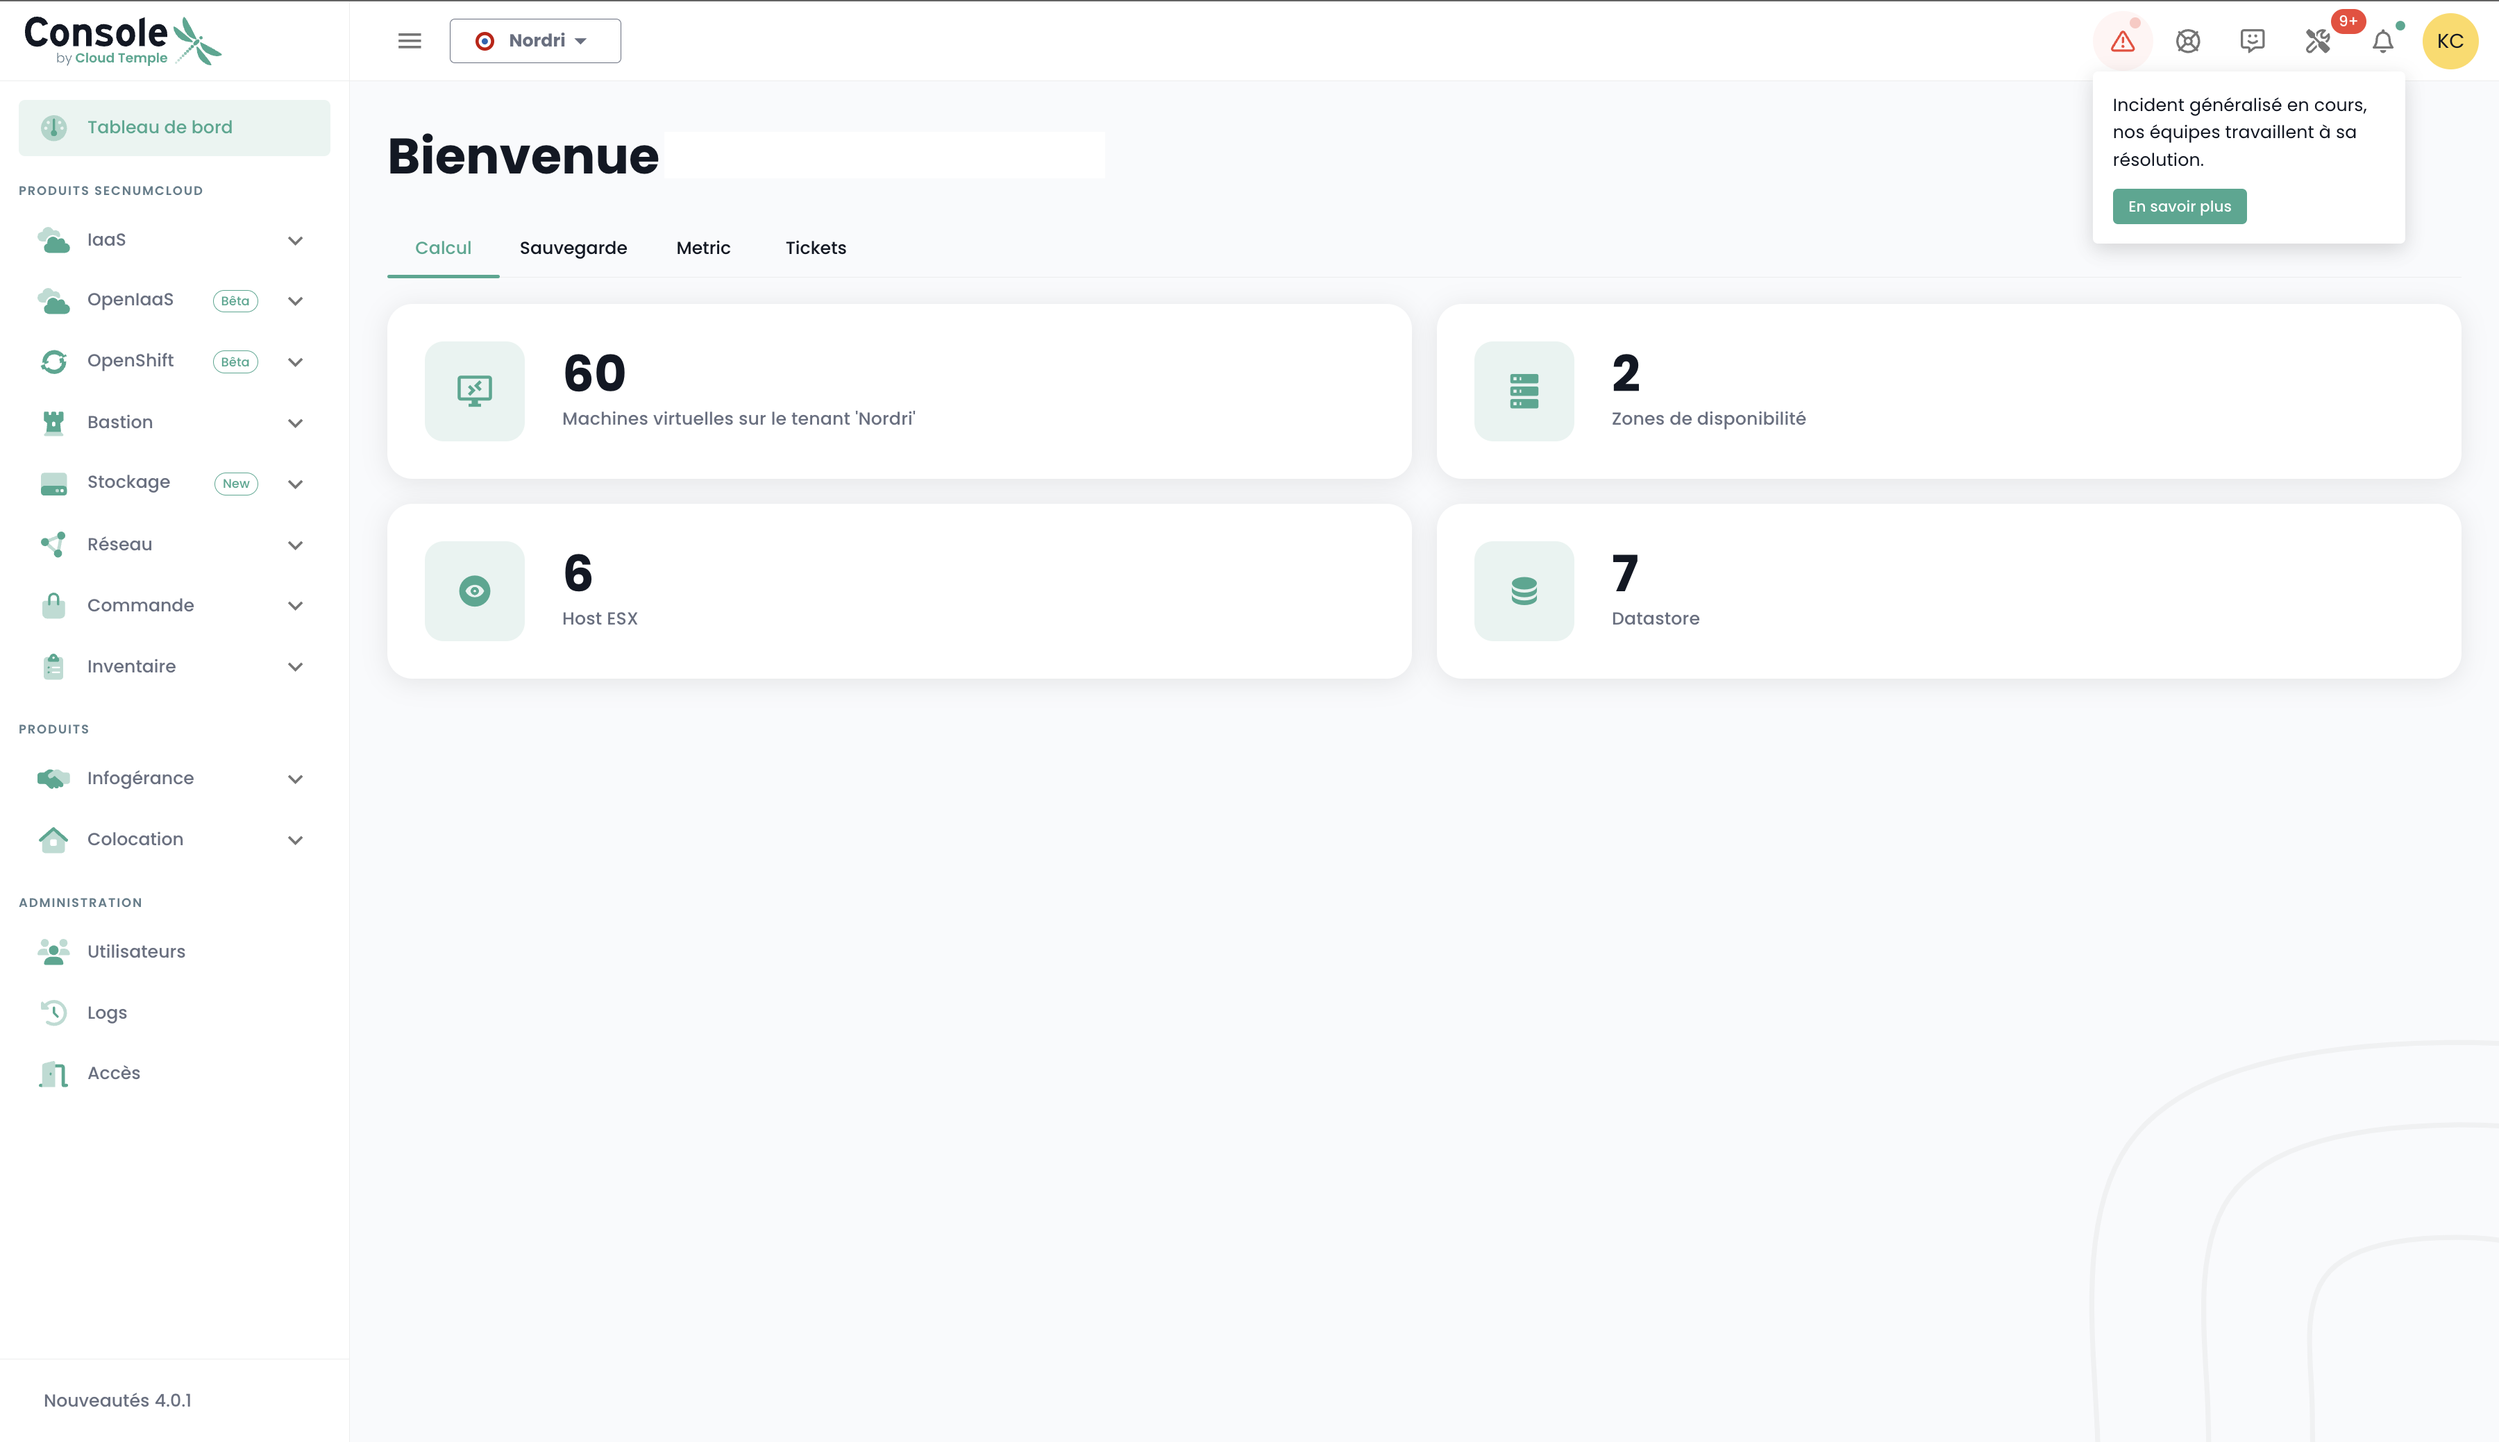
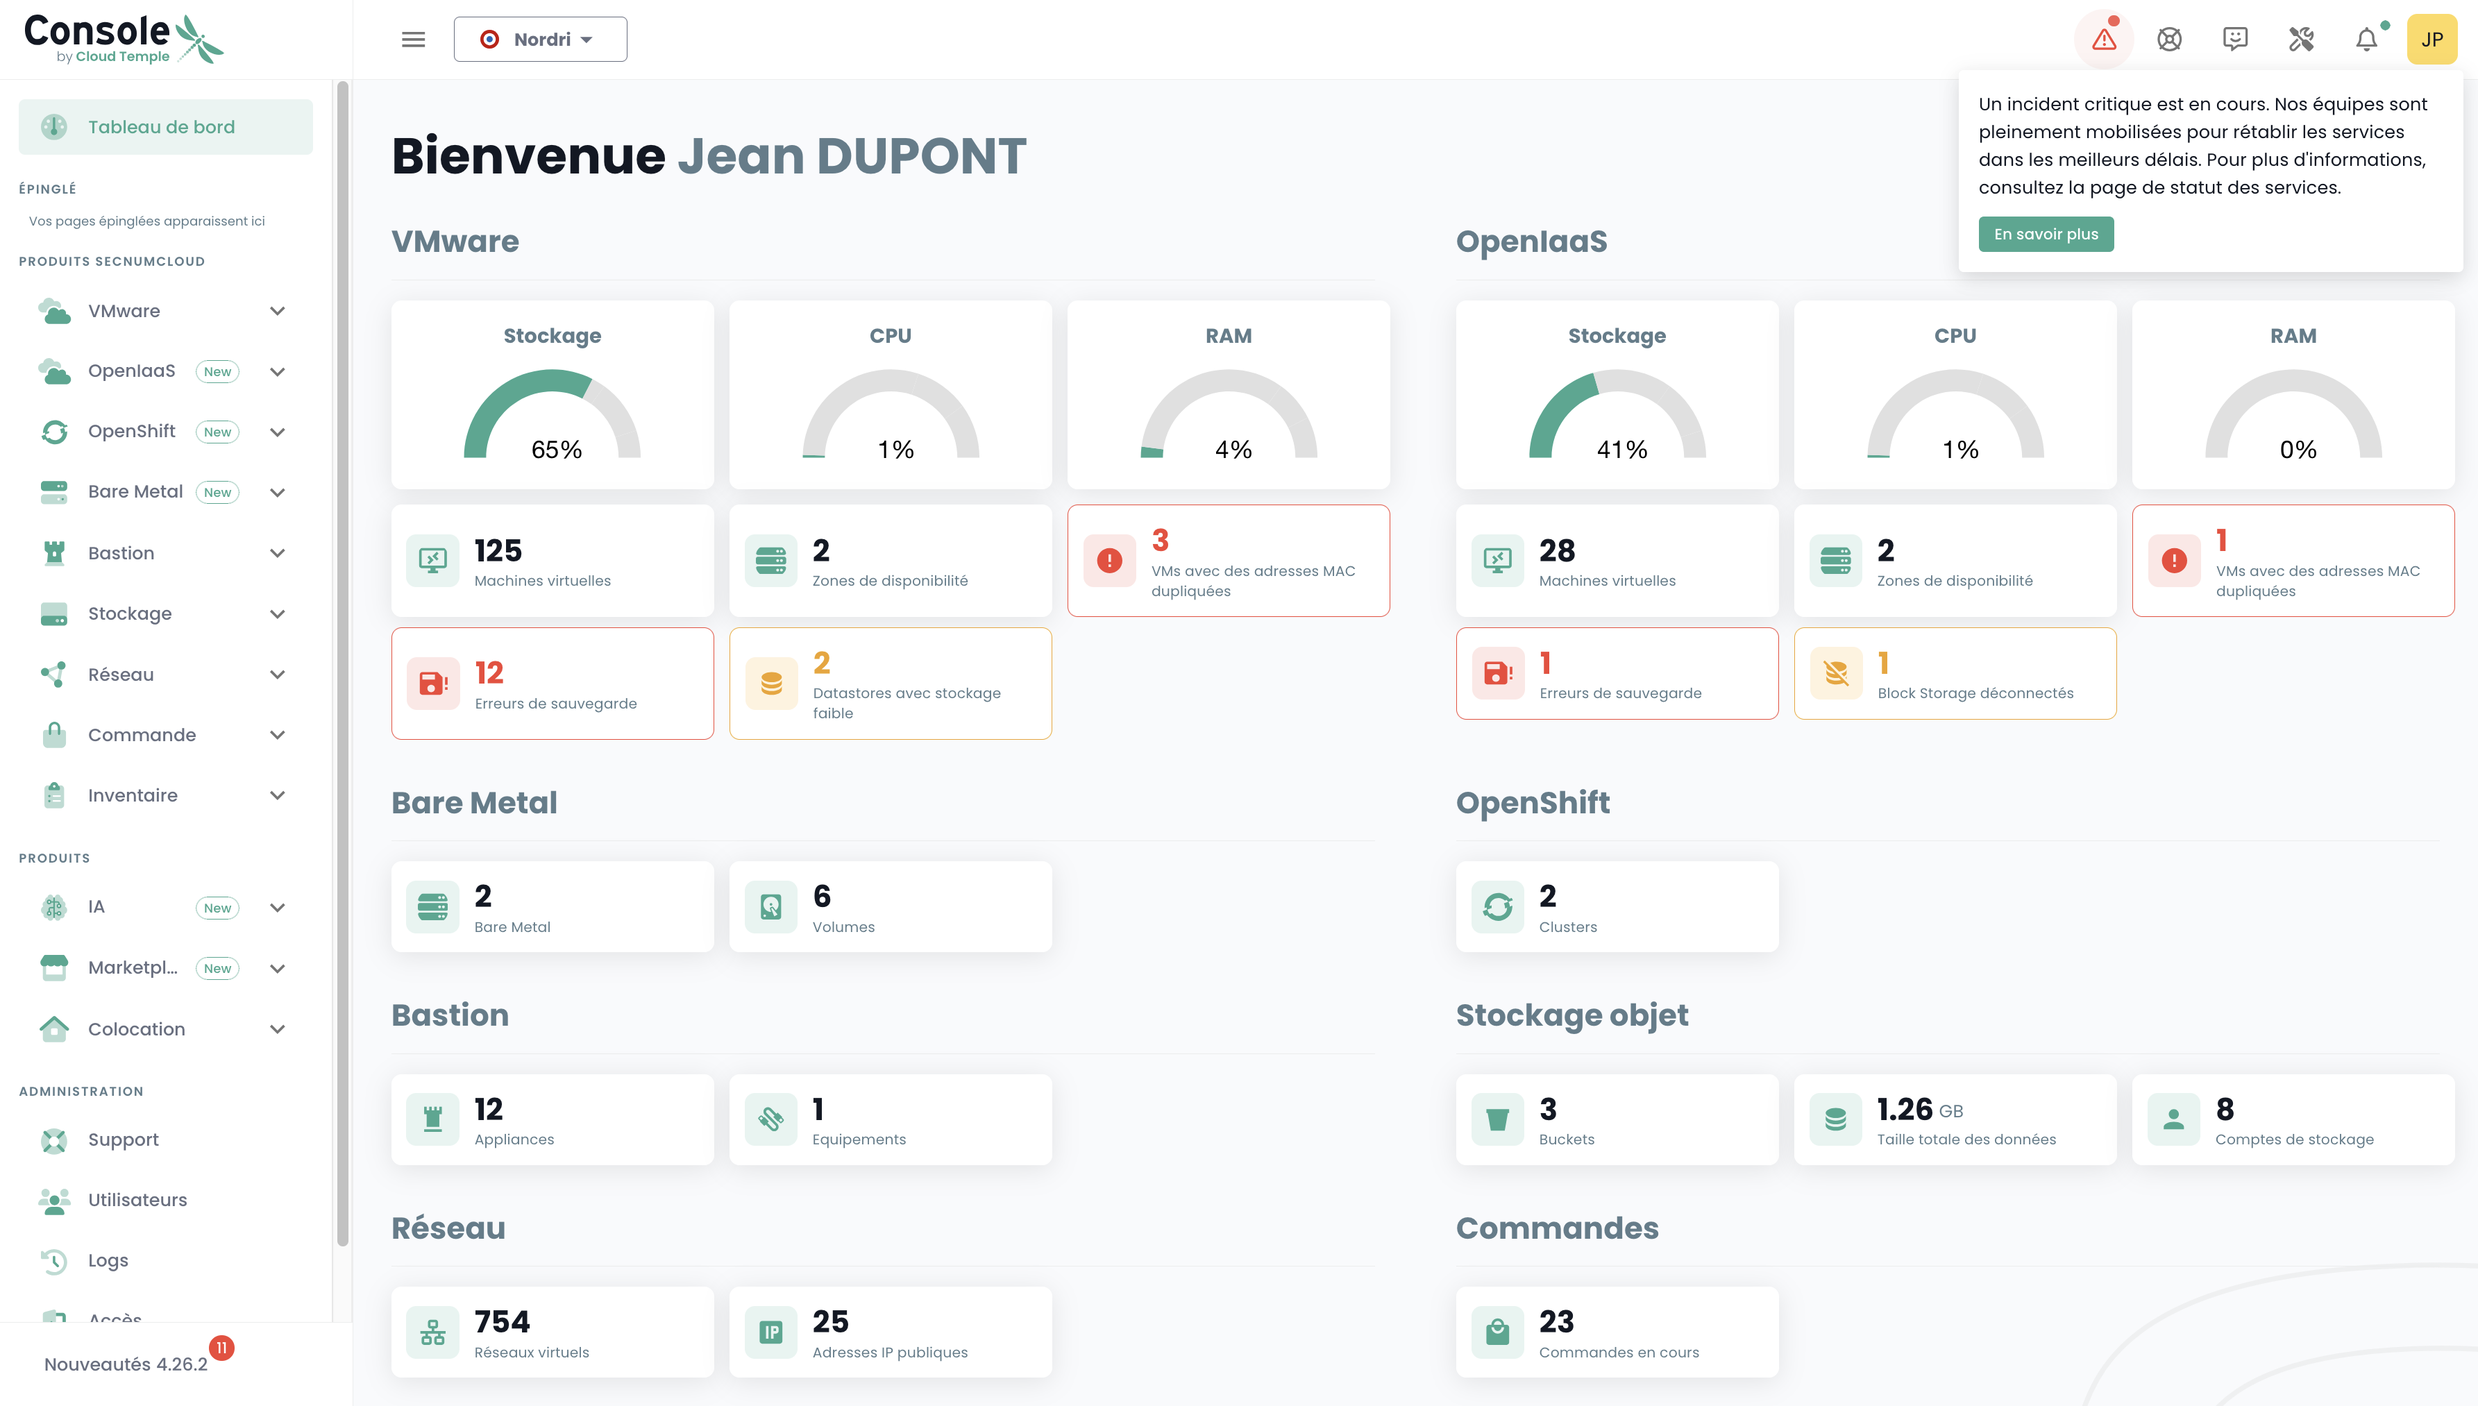
Mise à jour des screens présentant le dashboard, et mention des métrics et alertes affichées

diff --git a/docs/console/console_quickstart.md b/docs/console/console_quickstart.md
@@ -29,7 +29,9 @@ Une fois l'entreprise renseignée, veuillez cliquer sur __'Se connecter'__.
 <img src={shivaLogin} />
 
 Vous allez ensuite être redirigé vers une page vous demandant de vous authentifier.
-Une fois connecté, vous arrivez sur cette page.
+Une fois connecté, vous arrivez sur cette page. 
+
+Vous y trouverez l'ensemble des métriques concernant les produits souscrits sur votre périmètre. En cas de problème(s) sur vos produits VMware et/ou OpenIaaS, des alertes seront visibles, la couleur est liée à leur importance.
 
 <img src={shivaHome} />
 

diff --git a/i18n/it/docusaurus-plugin-content-docs/current/console/console_quickstart.md b/i18n/it/docusaurus-plugin-content-docs/current/console/console_quickstart.md
@@ -31,6 +31,8 @@ Dopo aver inserito l'azienda, fate clic su __'Accedi'__.
 Vi verrà quindi reindirizzati a una pagina in cui vi verrà chiesto di autenticarvi.  
 Dopo aver effettuato l'accesso, arriverete a questa pagina.
 
+Vi troverete tutte le metriche riguardanti i prodotti sottoscritti nel vostro perimetro. In caso di problema/i sui vostri prodotti VMware e/o OpenIaaS, saranno visibili degli avvisi, il colore è legato alla loro importanza.
+
 <img src={shivaHome} />
 
 ## Gestione della lingua

diff --git a/i18n/es/docusaurus-plugin-content-docs/current/console/console_quickstart.md b/i18n/es/docusaurus-plugin-content-docs/current/console/console_quickstart.md
@@ -31,6 +31,8 @@ Una vez haya indicado la empresa, haga clic en __'Conectarse'__.
 A continuación, será redirigido a una página que le solicitará autenticarse.  
 Una vez conectado, llegará a esta página.
 
+Encontrará todas las métricas relacionadas con los productos suscritos en su ámbito. En caso de problema(s) con sus productos VMware y/o OpenIaaS, las alertas serán visibles, su color está relacionado con su importancia.
+
 <img src={shivaHome} />
 
 ## Gestión del idioma

diff --git a/i18n/en/docusaurus-plugin-content-docs/current/console/console_quickstart.md b/i18n/en/docusaurus-plugin-content-docs/current/console/console_quickstart.md
@@ -31,6 +31,8 @@ Once you have entered the company name, click on __'Sign In'__.
 You will then be redirected to a page prompting you to authenticate.  
 After logging in, you will land on this page.
 
+Here you will find all the metrics related to the products subscribed to within your scope. In the event of issue(s) with your VMware and/or OpenIaaS products, alerts will be visible, with their color indicating their importance.
+
 <img src={shivaHome} />
 
 ## Language Management

diff --git a/i18n/de/docusaurus-plugin-content-docs/current/console/console_quickstart.md b/i18n/de/docusaurus-plugin-content-docs/current/console/console_quickstart.md
@@ -31,6 +31,8 @@ Once you have entered the company name, click on __'Sign in'__.
 You will then be redirected to a page prompting you to authenticate.  
 After logging in, you will arrive at this page.
 
+Hier finden Sie alle Metriken zu den in Ihrem Bereich abonnierten Produkten. Bei Problem(en) mit Ihren VMware- und/oder OpenIaaS-Produkten werden Warnungen sichtbar, deren Farbe mit ihrer Wichtigkeit verbunden ist.
+
 <img src={shivaHome} />
 
 ## Language Management
